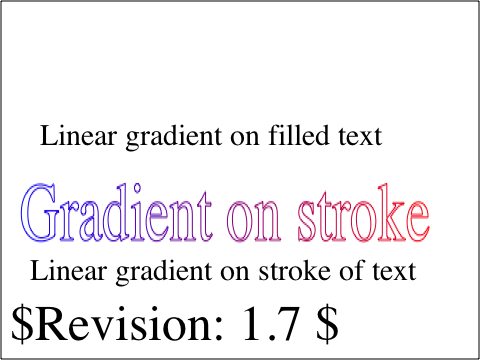
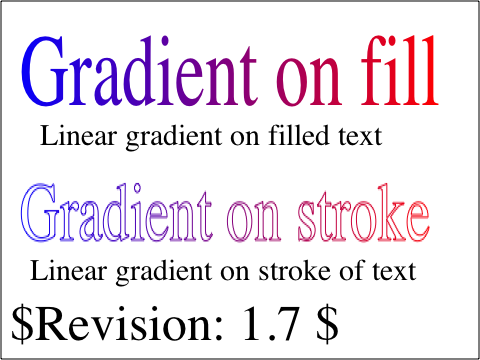
Reviewed by Oliver. Fix regression: gradient on fill of text works again!
git-svn-id: http://svn.webkit.org/repository/webkit/branches/feature-branch@21891 268f45cc-cd09-0410-ab3c-d52691b4dbfc

Changed region(s): [[0.0312, 0.0917, 0.5312, 0.3056], [0.75, 0.0917, 0.9062, 0.3056], [0.5625, 0.1528, 0.7188, 0.3056]]

diff --git a/WebCore/platform/graphics/svg/cg/SVGPaintServerGradientCg.cpp b/WebCore/platform/graphics/svg/cg/SVGPaintServerGradientCg.cpp
@@ -174,10 +174,7 @@ void SVGPaintServerGradient::teardown(GraphicsContext*& context, const RenderObj
     }
 
     if ((type & ApplyToFillTargetType) && style->svgStyle()->hasFill()) {
-        // workaround for filling the entire screen with the shading in the case that no text was intersected with the clip
-        if (!isPaintingText || (object->width() > 0 && object->height() > 0))
-            CGContextDrawShading(contextRef, shading);
-
+        CGContextDrawShading(contextRef, shading);
         context->restore();
     }
 
